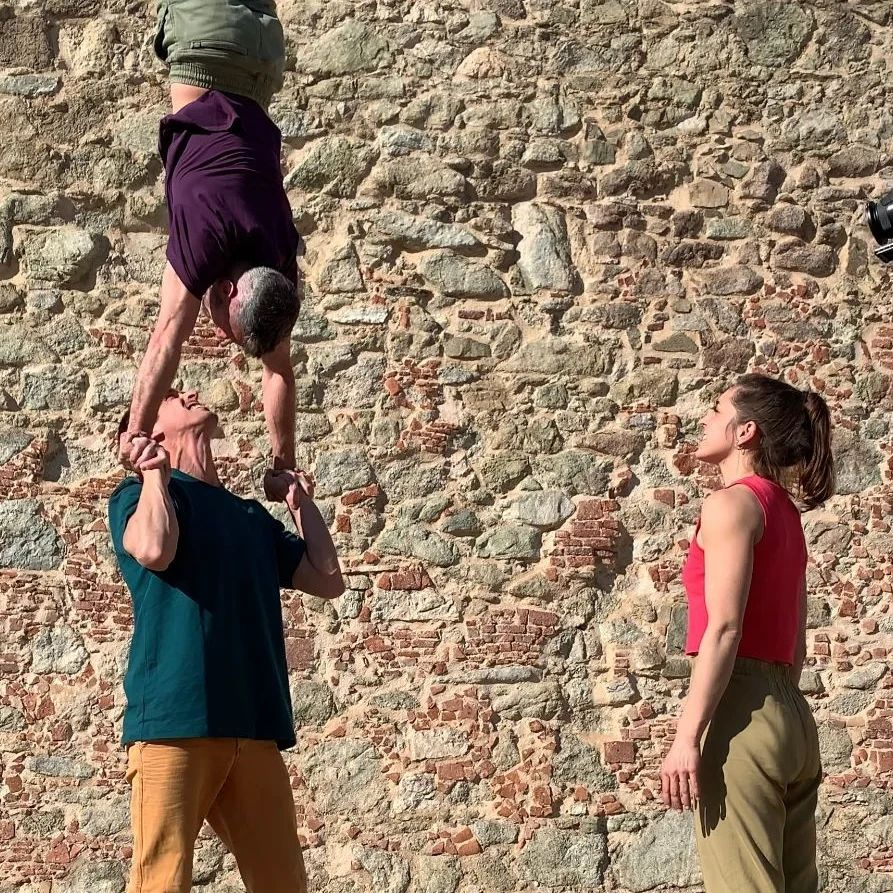
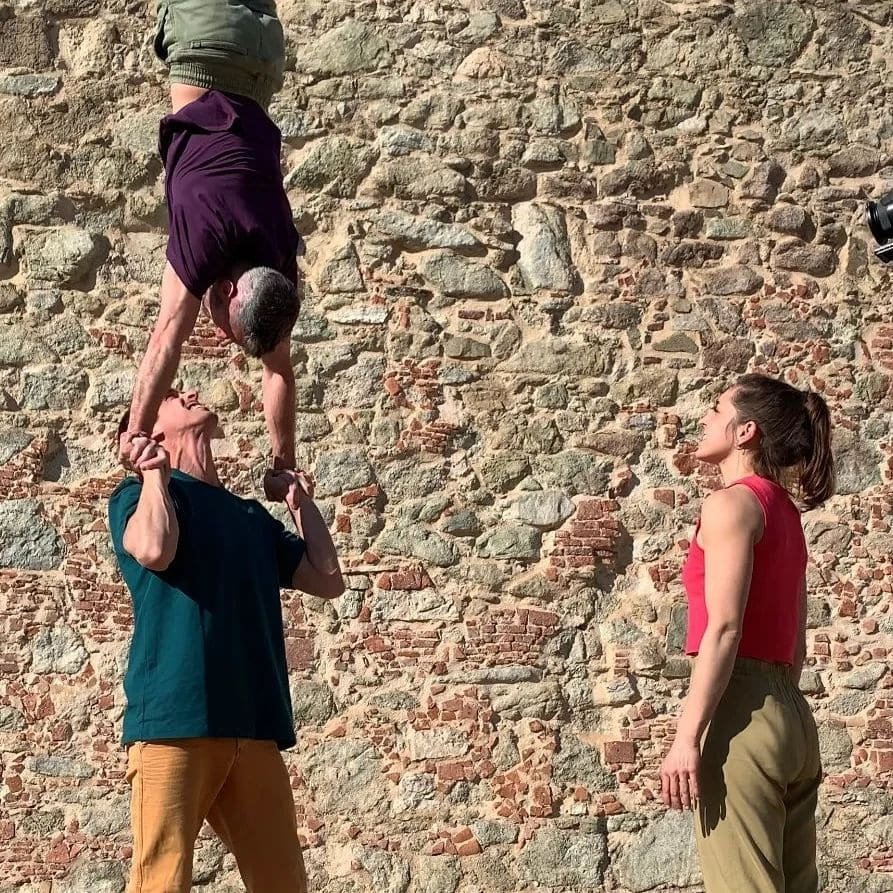
Compressed imgs

diff --git a/src/pages/creador/Creador.jsx b/src/pages/creador/Creador.jsx
@@ -8,7 +8,7 @@ import WhappBtn from "../../utils/whatsapp/WhappBtn";
 import Iframe from "../../components/iframes/Iframe";
 import Footer from "../../components/footer/Footer";
 import mientrastanto from "../../img/mientras-tanto2.jpeg";
-import MyL from "../../img/MyL5.JPG";
+import MyL from "../../img/MyL5.jpg";
 import MyL2 from "../../img/MyL6.jpg";
 import solojuntos from "../../img/solo-juntos.jpeg";
 import melasbailotodas from "../../img/me-las-bailo-todas.jpeg";
